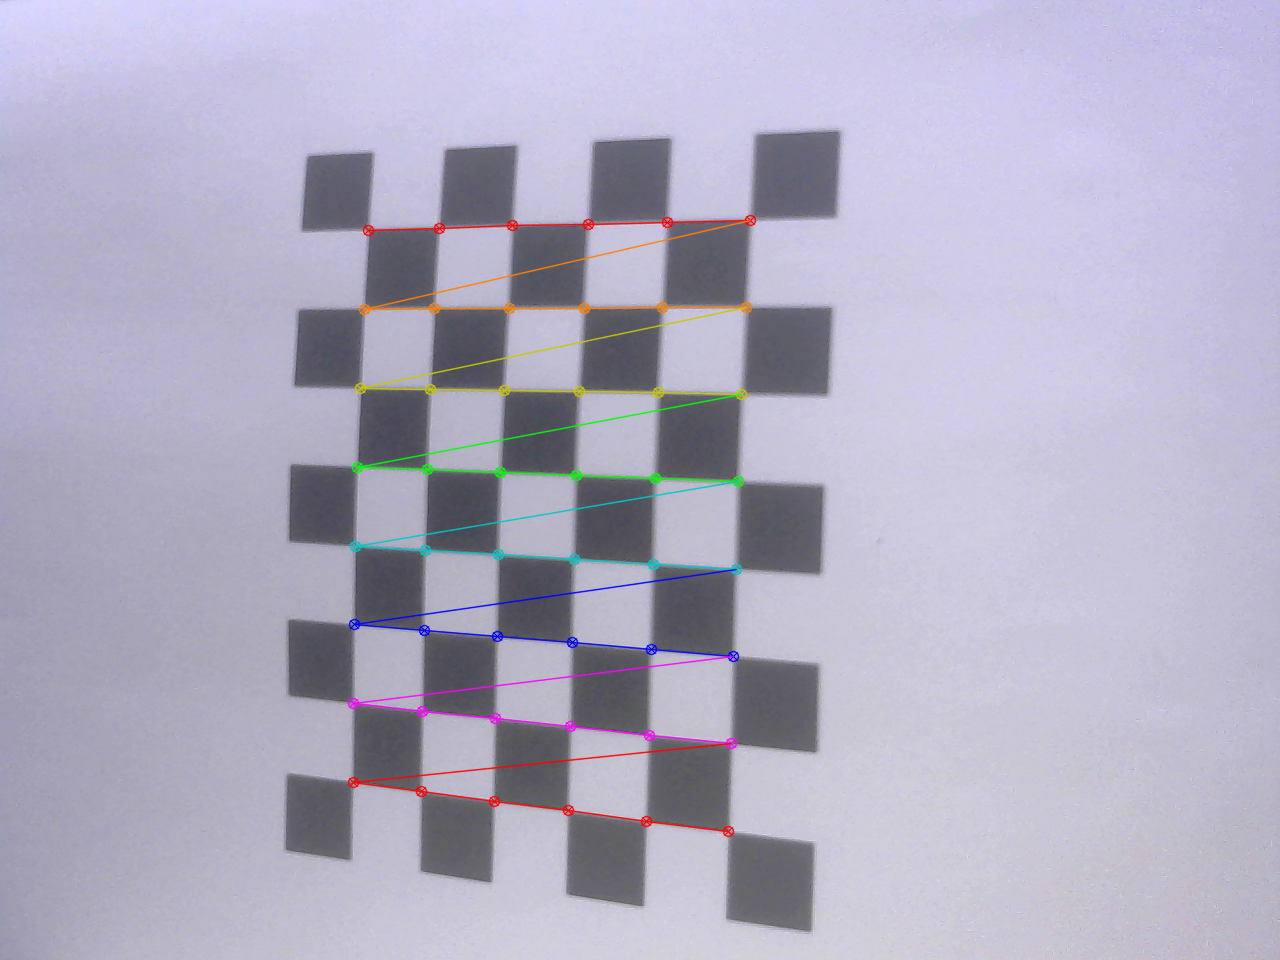
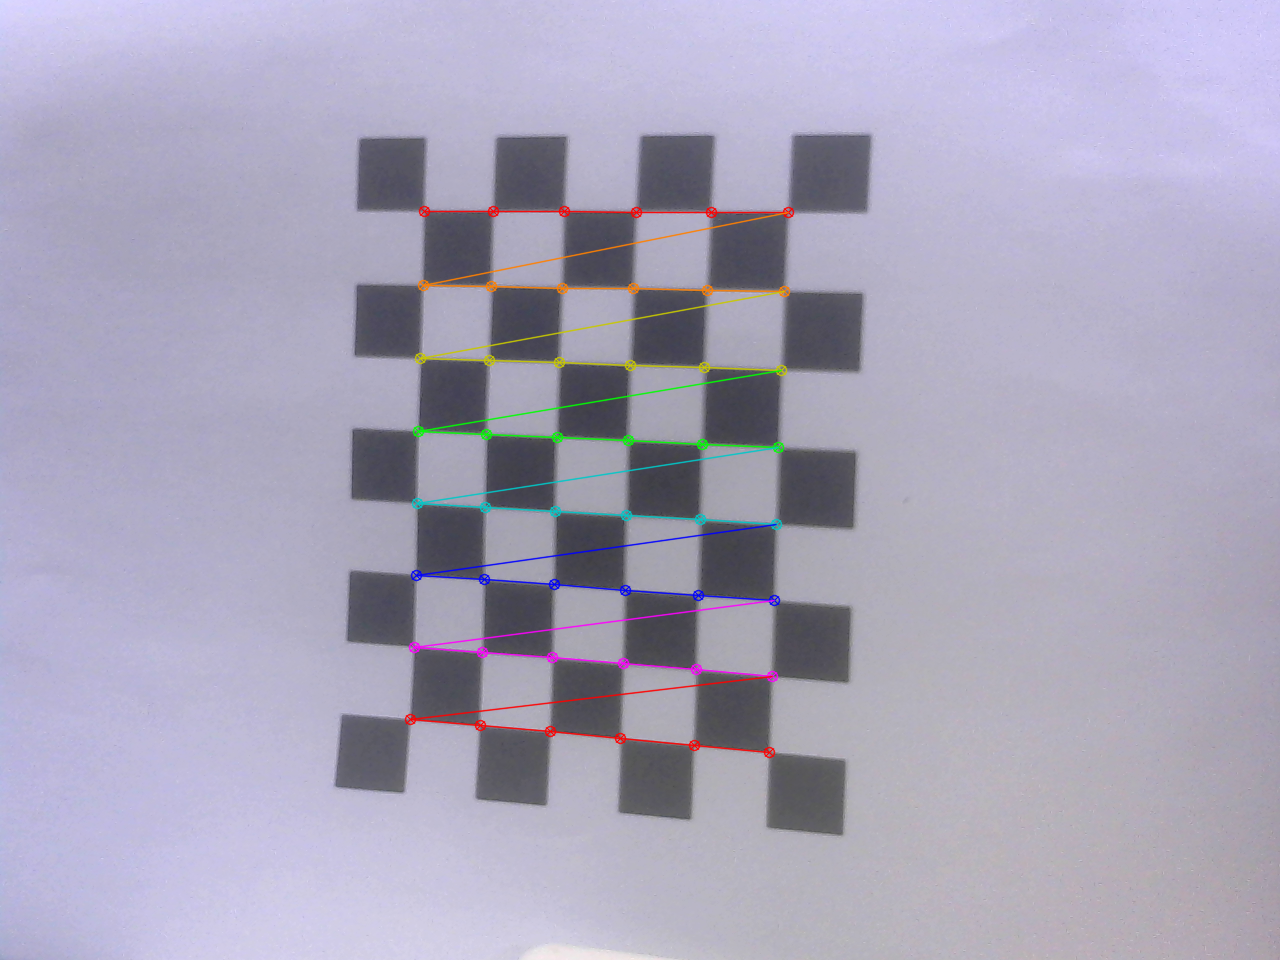
run two camera simultaneous

diff --git a/src/cam_node.cpp b/src/cam_node.cpp
@@ -21,7 +21,6 @@ void CameraNode::OpencvCalibrateCameraIntrinsics(std::queue<cv::Mat> images){
     for (size_t i = 0; i < img_num; i++)
     {
         image = images.front();
-        images.pop();
         cv::cvtColor(image, gray, cv::COLOR_BGR2GRAY);
 
         found = cv::findChessboardCorners(image, boardSize, corners, cv::CALIB_CB_ADAPTIVE_THRESH + cv::CALIB_CB_NORMALIZE_IMAGE + cv::CALIB_CB_FAST_CHECK);
@@ -41,19 +40,20 @@ void CameraNode::OpencvCalibrateCameraIntrinsics(std::queue<cv::Mat> images){
             objectPoints.push_back(objectCorners);
             imagePoints.push_back(corners);
         }
+        images.pop();
     }
 
     // 3. Calibrate camera
-    if(!image.empty()){
-        cv::Mat cameraMatrix, distCoeffs;
-        std::vector<cv::Mat> rvecs, tvecs;
+    cv::Mat cameraMatrix, distCoeffs;
+    std::vector<cv::Mat> rvecs, tvecs;
+    if(objectPoints.size()!=0){
         cv::calibrateCamera(objectPoints, imagePoints, image.size(), cameraMatrix, distCoeffs, rvecs, tvecs, cv::CALIB_FIX_K3);
+
         cv::imwrite("/home/renjie/catkin_ws/src/Camera_Calibration/image/calibrated_image.png",image);
 
         std::cout << "Camera matrix:" << std::endl << cameraMatrix << std::endl;
         std::cout << "Distortion coefficients:" << std::endl << distCoeffs << std::endl;
         std::cout << "----------------------------------" << std::endl;
-        
     }else{
         std::cout << "Checkerboard not found or too ambiguous !" << std::endl;
     }

diff --git a/test/test_cam_publish.cpp b/test/test_cam_publish.cpp
@@ -1,12 +1,25 @@
 #include "ros/ros.h"
+#include <thread>
 #include "cam_cali/cam_node.hpp"
 
 using namespace calibration;
 
+void publish_cam(ros::NodeHandle camera_node, CameraNode cam){
+    cam.CamPublisher(camera_node);
+}
+
 int main(int argc, char **argv){
     ros::init(argc, argv, "img_publisher");
     ros::NodeHandle camera_node;
-    CameraNode cam;
-    cam.CamPublisher(camera_node);
+    CameraNode cam1;
+    cam1.device_id = 0;
+    cam1.img_topic = "camera1/image";
+    std::thread cam1_thread(publish_cam, camera_node, cam1);
+    cam1_thread.detach();
+
+    CameraNode cam2;
+    cam2.device_id = 2;
+    cam2.img_topic = "camera2/image";
+    cam2.CamPublisher(camera_node);
     return 0;
 }

diff --git a/test/test_cam_calibrate.cpp b/test/test_cam_calibrate.cpp
@@ -7,6 +7,7 @@ int main(int argc, char **argv){
     ros::init(argc, argv, "cam_sub_node");
     ros::NodeHandle camera_node;  
     CameraNode cam;
+    cam.img_topic = "camera2/image";
     cam.CamSubscriber(camera_node);
     return 0;
 }
